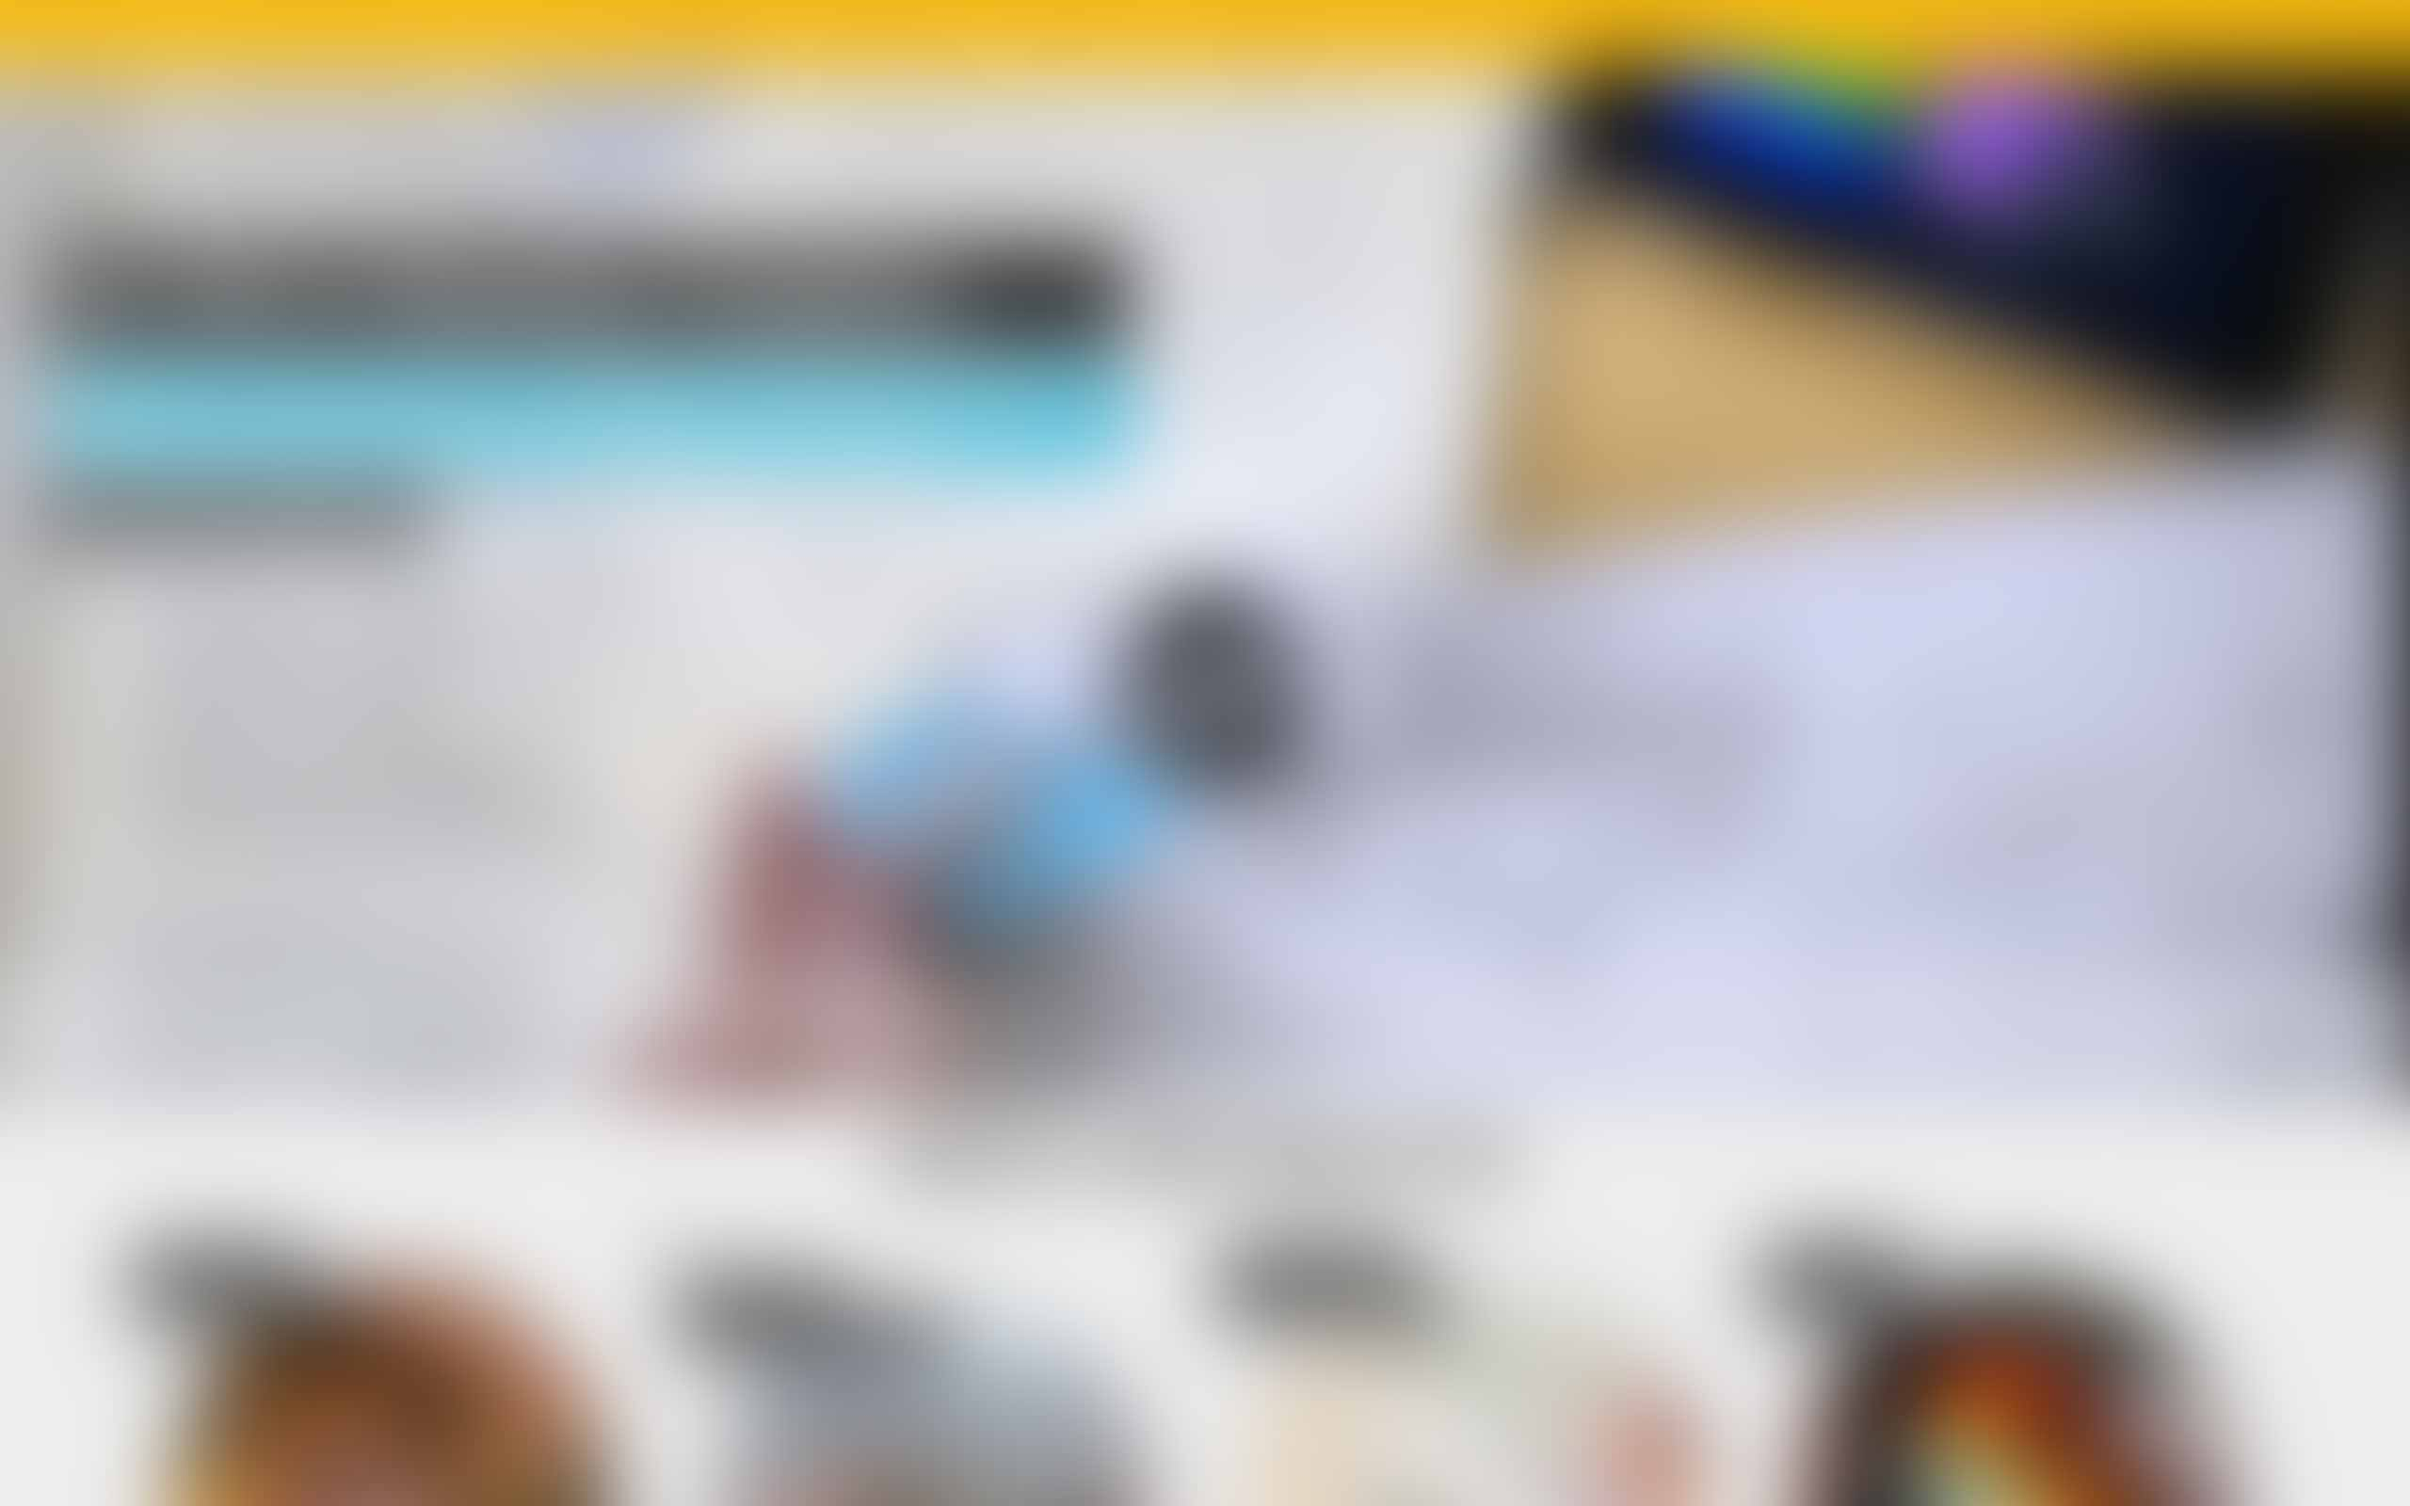
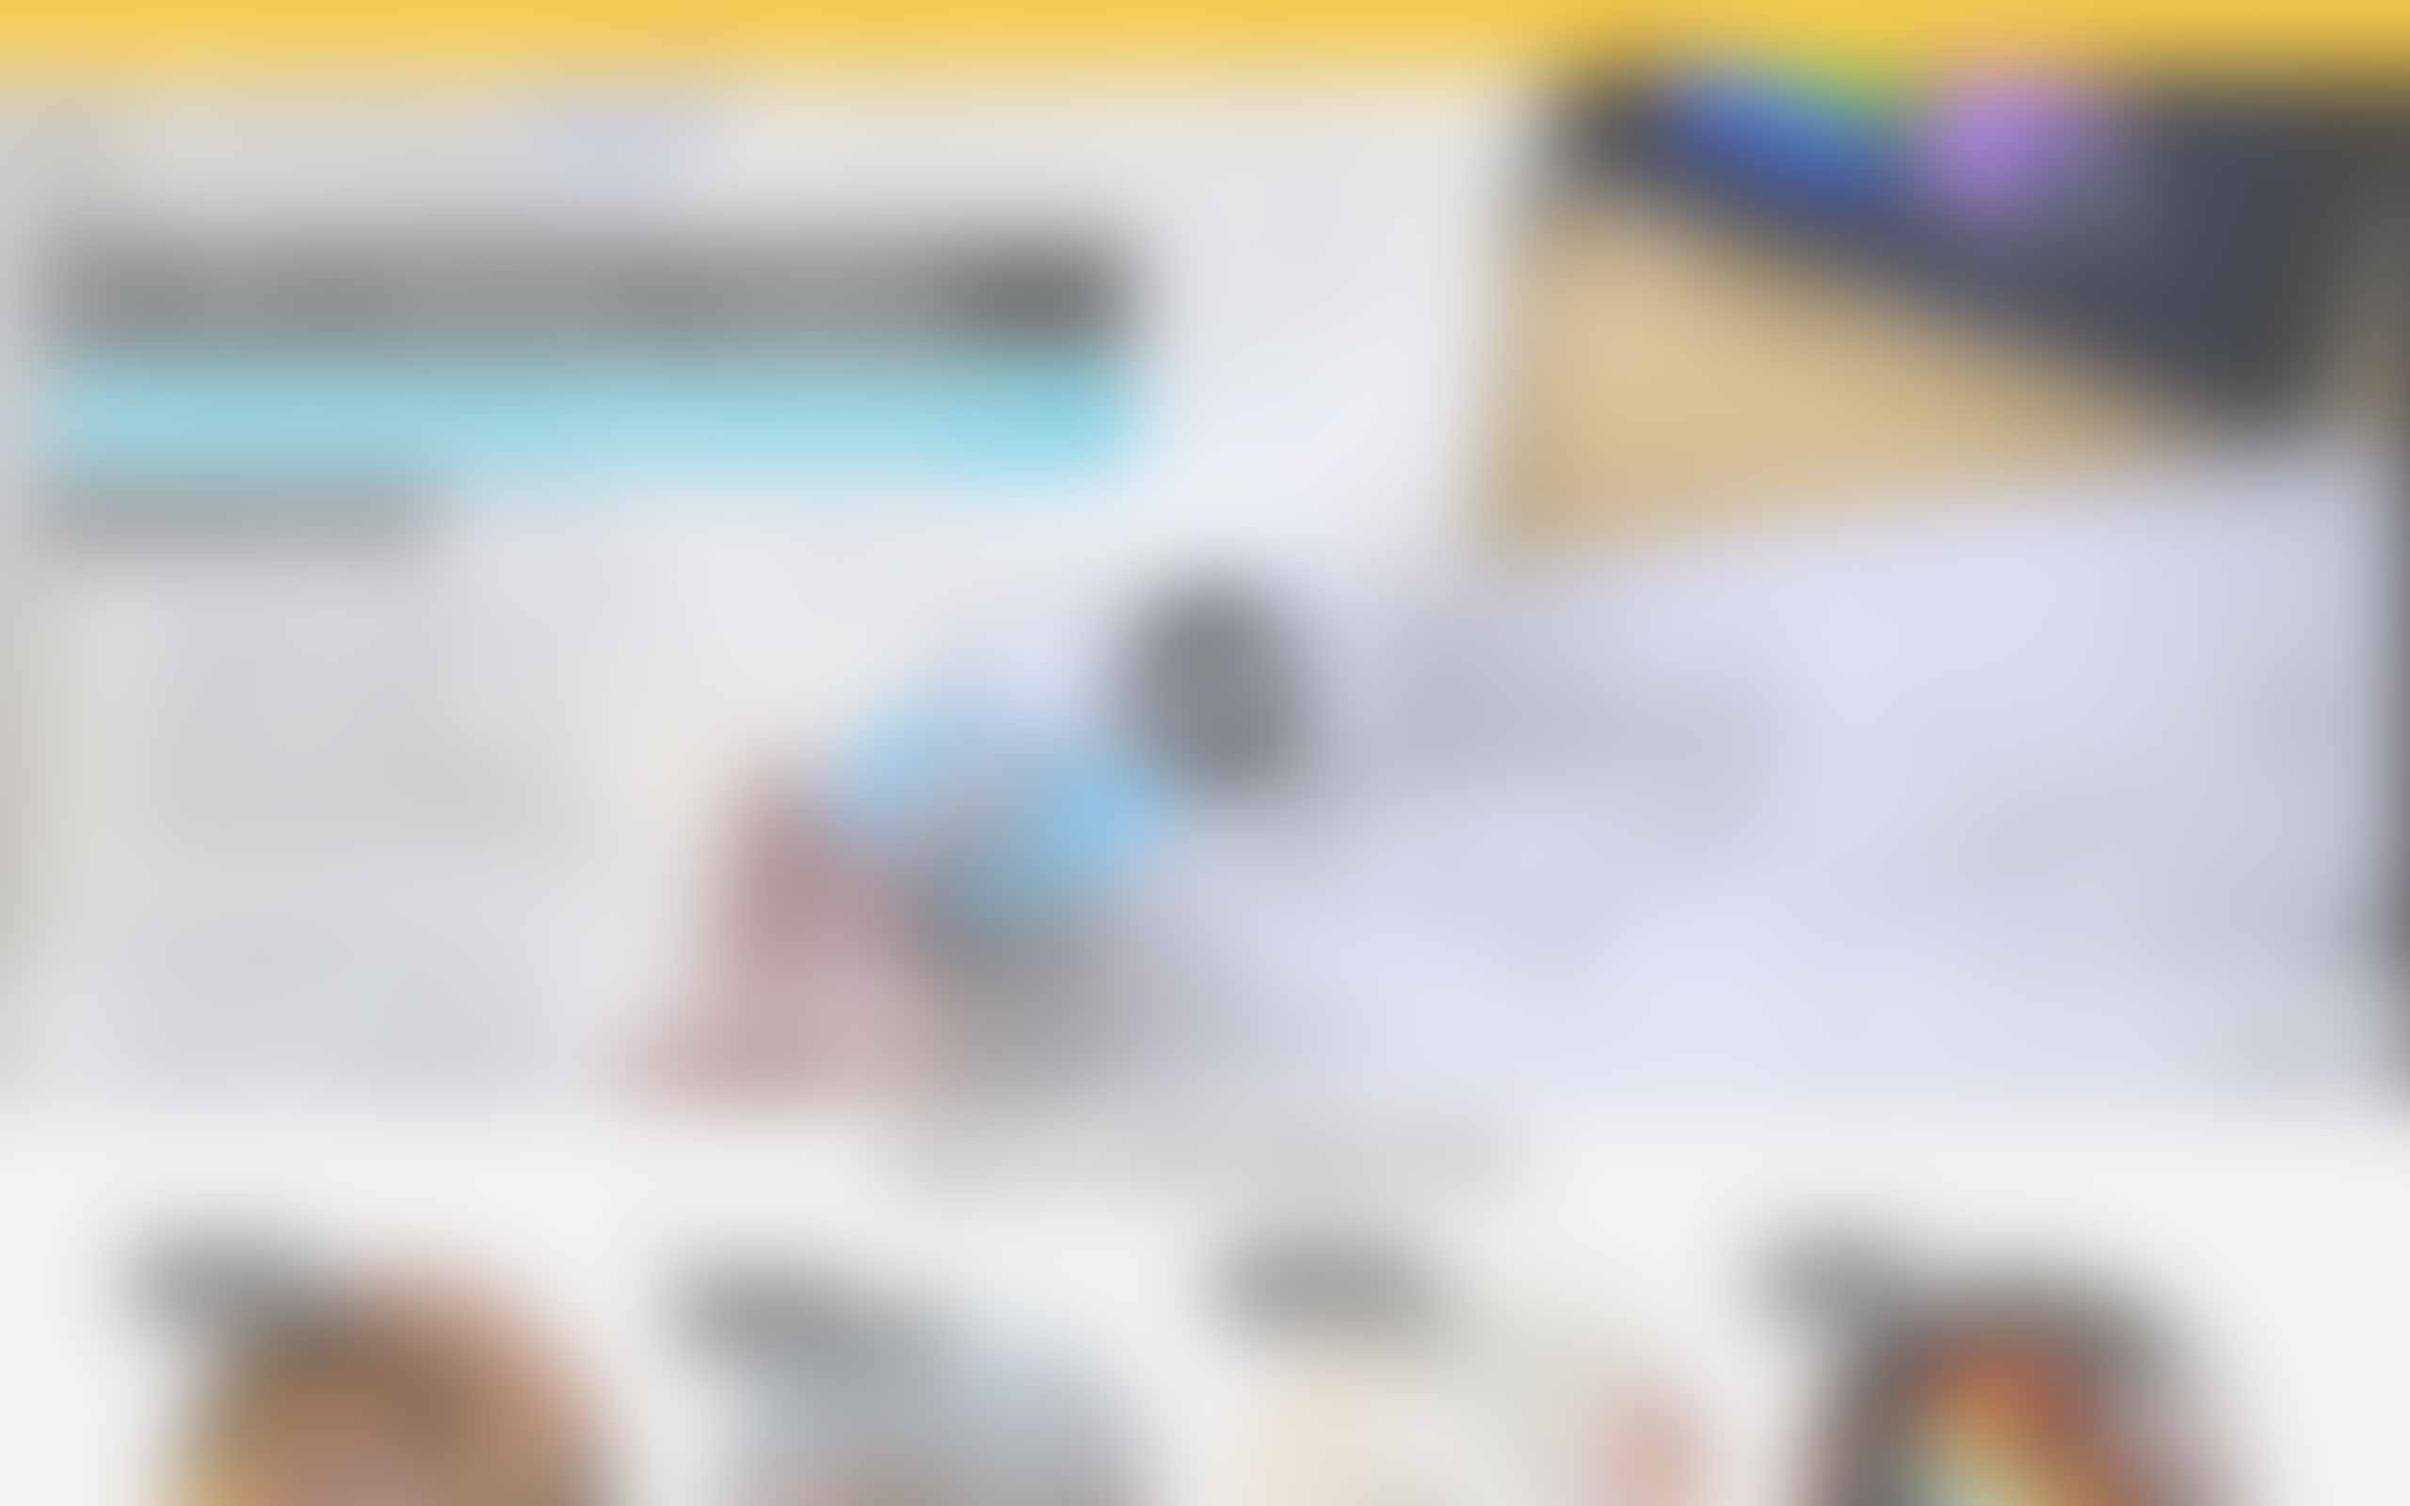
Dropped overlay styles and just modified the image.

diff --git a/css/style.css b/css/style.css
@@ -1,6 +1,4 @@
 html, body {
-  height: 100%;
-  width: 100%;
   margin: 0;
   padding: 0;
   font-size: 10px;
@@ -8,12 +6,8 @@ html, body {
   color: rgba(0, 0, 0, 0.75); }
 
 html {
-  background: url("https://s3-us-west-2.amazonaws.com/cbeas.img/beacrea/archival-bg.jpg") no-repeat top center #111;
-  background-size: cover;
-  position: relative; }
-
-body {
-  background: rgba(255, 255, 255, 0.25); }
+  background: url("https://s3-us-west-2.amazonaws.com/cbeas.img/beacrea/archival-bg.jpg") no-repeat top center #eee fixed;
+  background-size: cover; }
 
 a, a:visited, a:active {
   transition: background 0.4s;

diff --git a/css/style.scss b/css/style.scss
@@ -6,8 +6,6 @@ $color_beasleyBlack: rgba(0,0,0,0.75);
 
 // Globals
 html, body {
-  height: 100%;
-  width: 100%;
   margin: 0;
   padding: 0;
   font-size: 10px;
@@ -16,13 +14,8 @@ html, body {
 }
 
 html {
-  background: url("https://s3-us-west-2.amazonaws.com/cbeas.img/beacrea/archival-bg.jpg") no-repeat top center #111;
+  background: url("https://s3-us-west-2.amazonaws.com/cbeas.img/beacrea/archival-bg.jpg") no-repeat top center #eee fixed;
   background-size: cover;
-  position: relative;
-}
-
-body {
-  background: rgba(255,255,255,0.25);
 }
 
 a, a:visited, a:active {

diff --git a/index.html b/index.html
@@ -16,6 +16,7 @@
 	<link rel="stylesheet" href="css/style.css">
 </head>
 <body>
+	<div class="overlay"></div>
 	<main>
 		<img src="https://s3-us-west-2.amazonaws.com/cbeas.img/beacrea/beacrea-logo.png" alt="Beasley Creative Logo" role="logo">
 		<h1>
